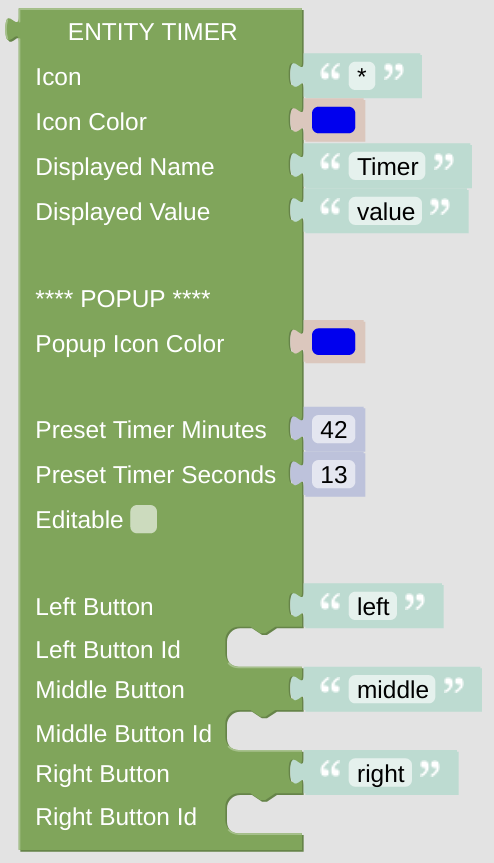
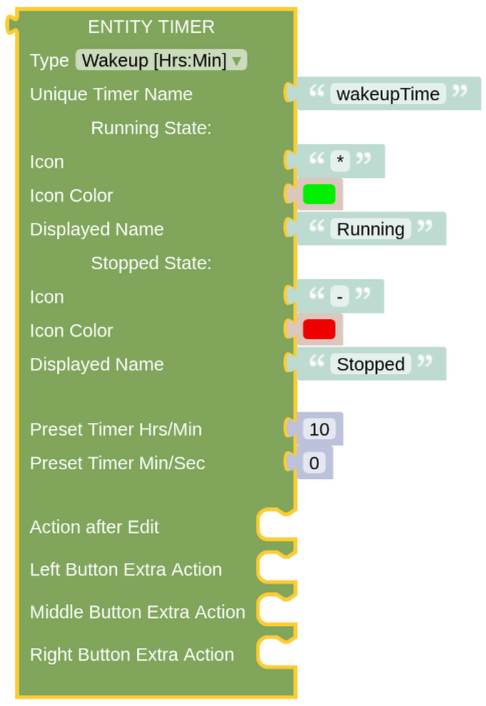
updated documentation

diff --git a/docs/blockLibrary_nspanel_entities_timer.md b/docs/blockLibrary_nspanel_entities_timer.md
@@ -1,21 +1,32 @@
 # Entity Timer
 
-This entity gives you some option to configure a timer and trigger some actions dependent on the timer values.
+This entity gives you some option to configure a timer (Wakeup or Countdown) and use [helpers](blockLibrary_nspanel_helpers_setTimerAction.md) to trigger some actions if the timer is finished.
 
 ## Configuration
 
 [<img src="img/blockLibrary_nspanel_entities_timer.png" align="right" width="300">](img/blockLibrary_nspanel_entities_timer.png)
 
+- Type: There are three different Timer options available
+
+  - Wakeup [Hrs:Min]: you can configure the time with Hours:Minutes and switch between on-time and daily wakeups on the popup page.
+  - Countdown [Hrs:Min]: some Countdown with Hours:Minutes to run down.
+  - Countdown [Min:Sec]: some Countdown with Minutes:Seconds to run down.
+
+  Because the nspanel firmware only supports Min:Sec in the frontend, you can enter values up to 59 for the Hour Field, this gets fixed when you leave the field.
+
+Depended on the State of the Wakeup/Countdown, you can configure the
+
 - Icon: just enter any character or (short) string, preferably some Icon string. It can be generated with the [getIconForName](blockLibrary_nspanel_helpers_getIconForName.md) helper or just copied manually from the [Material Design Icons](https://docs.nspanel.pky.eu/icon-cheatsheet.html) page.
+
 - Icon Color: use some suitable color for the icon. Be aware, that the color selector will let you choose some 24bit color, while on the display you can only use 16bit colors. The conversion will be done internally.
+
 - Displayed Name: it is usually shown close to the Icon.
-- Displayed Value: the value of the timer, might be hidden depending on the card it is used on.
 
-### Popup Configuration
+- Time Presets: These are the default values for the Wakeup/Countdown, you can reset the Countdown to this value at any time in the popup.
 
-- Configure the Icon color of the selector popup page.
-- Set the timer preset and choose, if the user can edit the timer.
-- Add three buttons below the timer and choose some action, which is triggered on buttonpress.<br clear="right"/>
+### Action Configuration
+
+There is no need to configure any action, the Timer will work if you call the required [helper](blockLibrary_nspanel_helpers_setTimerAction.md) regularily. But if you like, you can configure some additional Action on every button (text) in the popup.<br clear="right"/>
 
 ---
 

diff --git a/docs/blockLibrary_nspanel_helpers_setTimerAction.md b/docs/blockLibrary_nspanel_helpers_setTimerAction.md
@@ -1,0 +1,17 @@
+# setTimerAction
+
+[<img src="img/blockLibrary_nspanel_helpers_setTimerAction.png" align="right" width="300">](img/blockLibrary_nspanel_helpers_setTimerAction.png)
+
+## Configuration
+
+You need to enter the unique Name of your Timer as you have set it in the [Timer Entity](blockLibrary_nspanel_entities_timer.md). When the Countdown-Timer reaches zero or the Wakeup Time is reached, the added Action will be triggered.
+
+The Wakeup/Countdown is stopped (if not daily Wakeup) and the CountDown Value is resetted. On daily Wakeups the action is only triggered once, even if you call this helper more than once in the right minute.
+
+Be aware that you need to check the timer every minute (if you used some Wakeup or Some Countdown of Hours:Minutes) or every second (if you used some Countdown of Minutes:Seconds), else your action might not be triggered.<br clear="right"/>
+
+---
+
+[Openhab Blockly Nspanel - Library Documentation](README.md)
+
+---

diff --git a/docs/README.md b/docs/README.md
@@ -24,6 +24,12 @@
 - [setScreensaverScripts](blockLibrary_nspanel_helpers_setScreenSaverScripts.md)
 - [setScreensaverScripts(Complex)](blockLibrary_nspanel_helpers_setScreenSaverScriptsComplex.md)
 - [setScreensaverScripts(Complex LandingPage Mode)](blockLibrary_nspanel_helpers_setScreenSaverScriptsComplex_LandingPage.md)
+- [setTimerAction](blockLibrary_nspanel_helpers_setTimerAction.md)
+- [getTimerString](blockLibrary_nspanel_helpers_getTimerString.md)
+- [startTimer](blockLibrary_nspanel_helpers_startTimer.md)
+- [stopTimer](blockLibrary_nspanel_helpers_stopTimer.md)
+- [setTimerNewTime](blockLibrary_nspanel_helpers_setTimerNewTime.md)
+- [getTimerStatus](blockLibrary_nspanel_helpers_getTimerStatus.md)
 - [Example returnValue](blockLibrary_nspanel_helpers_returnValue.md)
 - [Example returnMode](blockLibrary_nspanel_helpers_returnMode.md)
 - [Example Getter Statement](blockLibrary_nspanel_helpers_exampleGetter.md)

diff --git a/docs/blockLibrary_nspanel_helpers_startTimer.md b/docs/blockLibrary_nspanel_helpers_startTimer.md
@@ -1,0 +1,15 @@
+# startTimer
+
+[<img src="img/blockLibrary_nspanel_helpers_startTimer.png" align="right" width="300">](img/blockLibrary_nspanel_helpers_startTimer.png)
+
+## Configuration
+
+You need to enter the unique Name of your Timer as you have set it in the [Timer Entity](blockLibrary_nspanel_entities_timer.md). The Timer (Wakeup/Countdown) is started on call.
+
+Be aware that you need to check the timer every minute (if you used some Wakeup or Some Countdown of Hours:Minutes) or every second (if you used some Countdown of Minutes:Seconds), else your action might not be triggered.<br clear="right"/>
+
+---
+
+[Openhab Blockly Nspanel - Library Documentation](README.md)
+
+---

diff --git a/docs/blockLibrary_nspanel_helpers_getTimerString.md b/docs/blockLibrary_nspanel_helpers_getTimerString.md
@@ -1,0 +1,15 @@
+# getTimerString
+
+[<img src="img/blockLibrary_nspanel_helpers_getTimerString.png" align="right" width="300">](img/blockLibrary_nspanel_helpers_getTimerString.png)
+
+## Configuration
+
+You need to enter the unique Name of your Timer as you have set it in the [Timer Entity](blockLibrary_nspanel_entities_timer.md). 
+
+Be aware that you need to check the timer every minute (if you used some Wakeup or Some Countdown of Hours:Minutes) or every second (if you used some Countdown of Minutes:Seconds), else your action might not be triggered.<br clear="right"/>
+
+---
+
+[Openhab Blockly Nspanel - Library Documentation](README.md)
+
+---

diff --git a/docs/blockLibrary_nspanel_helpers_setTimerNewTime.md b/docs/blockLibrary_nspanel_helpers_setTimerNewTime.md
@@ -1,0 +1,13 @@
+# setTimerNewTime
+
+[<img src="img/blockLibrary_nspanel_helpers_setTimerNewTime.png" align="right" width="300">](img/blockLibrary_nspanel_helpers_setTimerNewTime.png)
+
+## Configuration
+
+You need to enter the unique Name of your Timer as you have set it in the [Timer Entity](blockLibrary_nspanel_entities_timer.md). You can set the timer to a new target time or change the countdown time, the running state of the timer is not effected.<br clear="right"/>
+
+---
+
+[Openhab Blockly Nspanel - Library Documentation](README.md)
+
+---

diff --git a/docs/blockLibrary_nspanel_helpers_getTimerStatus.md b/docs/blockLibrary_nspanel_helpers_getTimerStatus.md
@@ -1,0 +1,13 @@
+# getTimerStatus
+
+[<img src="img/blockLibrary_nspanel_helpers_getTimerStatus.png" align="right" width="300">](img/blockLibrary_nspanel_helpers_getTimerStatus.png)
+
+## Configuration
+
+You need to enter the unique Name of your Timer as you have set it in the [Timer Entity](blockLibrary_nspanel_entities_timer.md). As a result of this helper you will get the status of the Timer, ON or OFF (running or stopped).<br clear="right"/>
+
+---
+
+[Openhab Blockly Nspanel - Library Documentation](README.md)
+
+---

diff --git a/docs/blockLibrary_nspanel_helpers_stopTimer.md b/docs/blockLibrary_nspanel_helpers_stopTimer.md
@@ -1,0 +1,13 @@
+# stopTimer
+
+[<img src="img/blockLibrary_nspanel_helpers_stopTimer.png" align="right" width="300">](img/blockLibrary_nspanel_helpers_stopTimer.png)
+
+## Configuration
+
+You need to enter the unique Name of your Timer as you have set it in the [Timer Entity](blockLibrary_nspanel_entities_timer.md). The Timer (Wakeup/Countdown) is stopped on call.<br clear="right"/>
+
+---
+
+[Openhab Blockly Nspanel - Library Documentation](README.md)
+
+---
